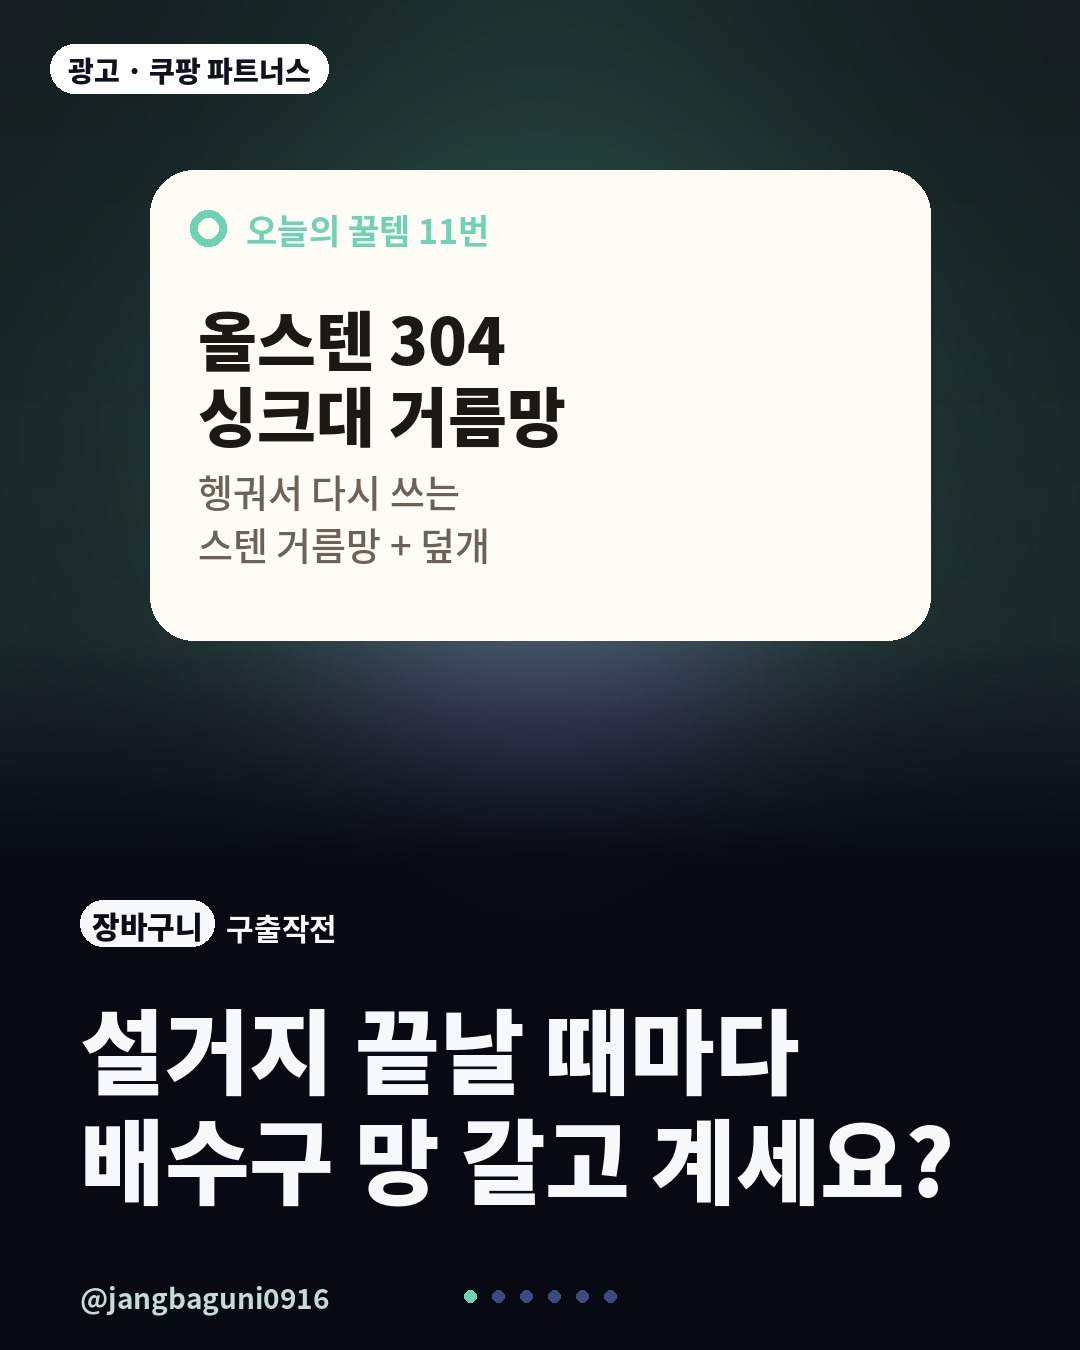
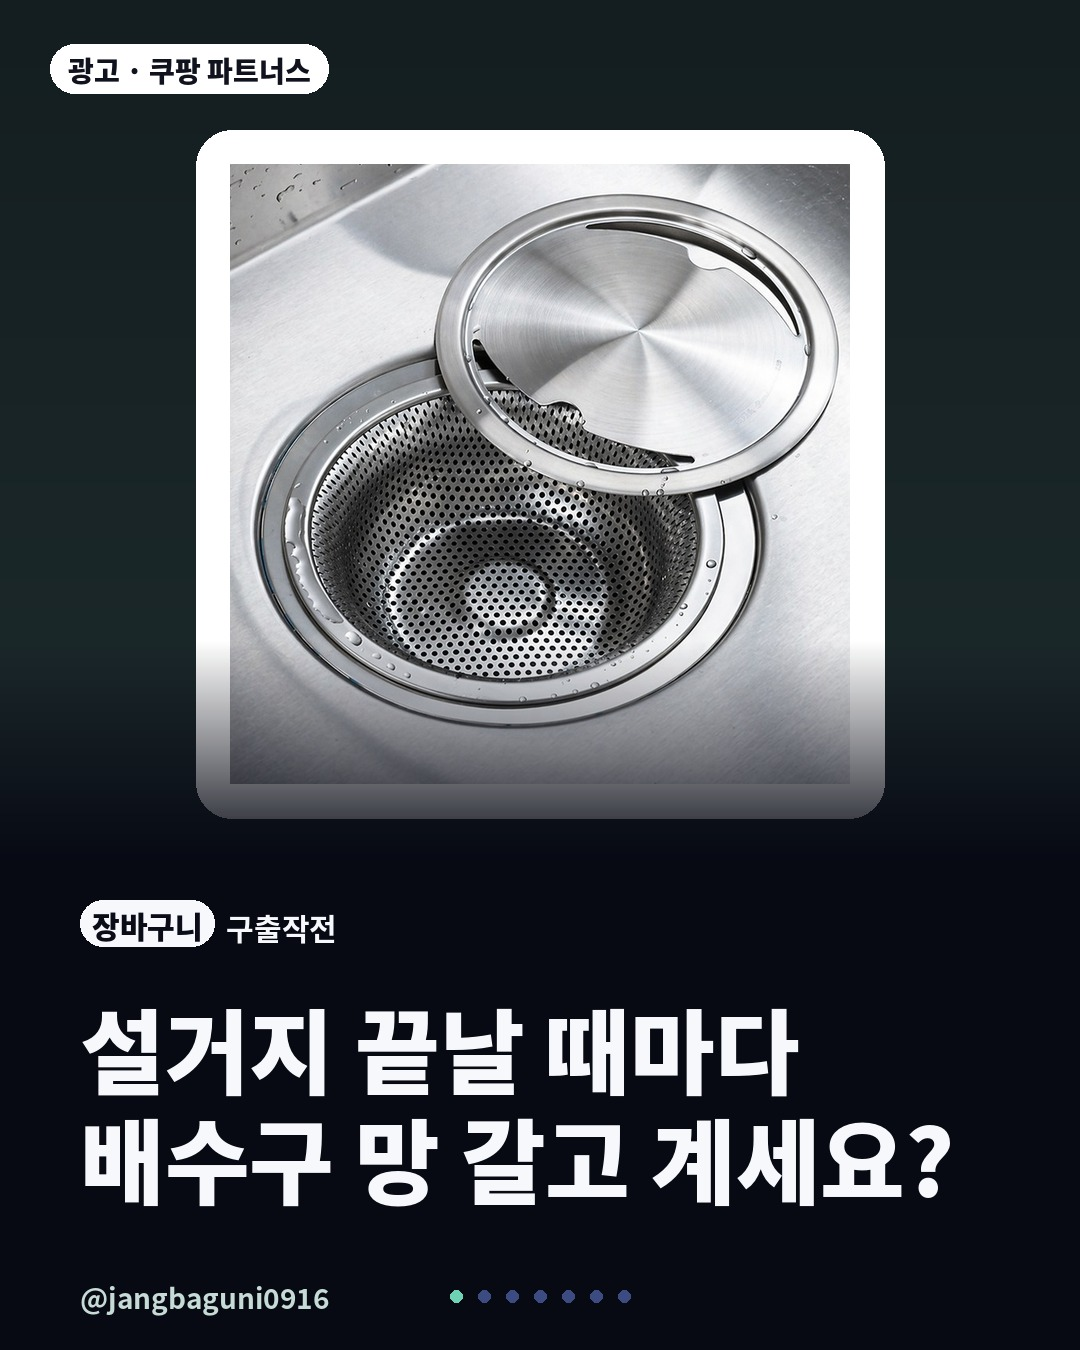
꿀템 11·12번: 실물 상품 사진 적용 + 실물 사진 필수 규칙(PLAYBOOK 15)
Claude-Session: https://claude.ai/code/session_01VQQ9ZVuTUbQV4BdtZ9CxqV

Changed region(s): [[0.1222, 0.0622, 0.8861, 0.6222], [0.4278, 0.9333, 0.5806, 0.9644]]

diff --git a/picks/PLAYBOOK.md b/picks/PLAYBOOK.md
@@ -30,7 +30,7 @@
 - 반드시 포함: `"ad_label": "광고 · 쿠팡 파트너스"`, `"theme"`, `"brand": "@jangbaguni0916"`, `"store_tag": ["장바구니","구출작전"]`, `"store_name": "장바구니 구출작전"`, `"avatar_text": "장"`, `"post_at"`.
 - 6장: 1 hero(`tag` 비주얼: kicker "오늘의 꿀템 N번", 상품 이름, 한 줄 장점) → 2 문제(이런 불편 있죠?) → 3 해결(이 상품이 어떻게) → 4 사용법·팁 → 5 "프로필 링크 → N번" → 6 follow(head: "매일 살림 꿀템이 궁금하다면" / "@jangbaguni0916 팔로우하세요!").
 - 가격은 숫자로 쓰지 않는다(수시로 바뀜). "링크에서 오늘 가격 확인"으로 쓴다. "최저가", "무조건", 효능·의학적 표현 금지. 써 본 것처럼 쓰지 않는다(직접 사용 후기 아님).
-- 상품 사진은 쓰지 않는다(사용자가 직접 찍어 준 사진만 `photo` 로 사용 가능).
+- **실물 사진 필수 (2026-11-02 사용자 요청, 모든 작업에 적용)**: 카드뉴스는 링크 번호·팔로우 장을 뺀 모든 장에 실제 상품 사진(판매자 상품 이미지 또는 사용자가 준 사진)을 `{"kind":"photo","src":"p_xxx.jpg","card":true,"size":620,"top":130}` 로 넣는다. 사진 없이 tag/big 비주얼만으로 만들지 않는다.
 - `caption.txt`: 후킹 1줄 → ✔ 장점 3줄 → "프로필 링크 → N번에서 확인" → 댓글 유도 질문 → 해시태그 10개 이내(#살림템 #살림꿀템 등). 대가성 문구와 꼬리말은 게시할 때 자동으로 맨 앞·뒤에 붙으니 넣지 않는다.
 
 ## 5. 쇼츠 (script.json) — 형식은 `shorts/drafts/2026-10-28-sample/script.json` 참고
@@ -89,7 +89,7 @@
 
 ## 13. 모든 쇼츠 = Flow AI 첫 장면 + 실제 상품 사진 + 리모션 (사용자 승인 형식)
 - 구성: 1 AI 상황 장면(후킹 질문 headline) → 2~4 실제 상품 사진 장면(사용자가 준 사진 또는 판매자 상품 이미지, 안전·인증 문구 이미지는 제외) → 마지막 '프로필 링크 N번' + 좋아요·구독·팔로우.
-- 상품 사진이 없으면 tag/big 비주얼로 대신한다.
+- 상품 장면(2~4)에는 반드시 실제 상품 사진을 넣는다(2026-11-02 사용자 요청, 모든 쇼츠). 사진을 못 구했으면 tag/big 으로 대신하지 말고 초안 맨 위에 ⚠ 로 알리고 사진부터 구한다.
 
 ### Flow AI 첫 장면 만드는 순서 (매번, 2026-10-28 확정)
 1. 크롬(claude-in-chrome)에서 https://flow.google.com 의 기존 프로젝트를 열거나 "새 프로젝트". 사용자 구글 계정으로 이미 로그인되어 있다(로그인 화면이면 건너뛰고 초안 맨 위에 ⚠).
@@ -111,3 +111,10 @@
 - 링크 안내는 지금처럼 "프로필 링크에서 O번" 유지. 댓글 키워드 자동 DM(ManyChat 등)은 사용자가 직접 가입·연결해야 하므로 사용자가 요청할 때만 안내한다.
 
 - 정시 게시 (2026-10-29 추가): 승인 push 후 `정시 게시 도우미`(post-on-time.yml)가 게시 시각까지 기다렸다가 picks-post 를 실행한다(60분 앞까지). 그보다 멀면 기존 15분 확인에 맡긴다.
+
+## 15. 실물 상품 사진 가져오기 (2026-11-02 사용자 요청: 모든 카드뉴스·쇼츠에 실물 사진)
+- 작업 환경(클라우드)에서는 쿠팡 이미지 서버(coupangcdn.com)가 막혀 있다(403). 크롬 자동 다운로드도 coupangcdn.com 에서 막힐 수 있다.
+- 순서: ① 크롬으로 쿠팡 상품 페이지(`https://www.coupang.com/vp/products/<productId>?itemId=..&vendorItemId=..`, 파트너스 링크 생성 화면 주소에 있는 번호)를 열고 상품평 수를 확인(100개 이상)한 뒤, 갤러리 썸네일(`48x48ex`) 주소를 JS로 모아 `780x780ex` 로 바꾼다.
+  ② 폴더에 `photo_urls.txt` 를 "파일이름 URL" 한 줄씩(예: `src_1.png https://thumbnail.coupangcdn.com/thumbnails/remote/780x780ex/image/...`) 써서 push 하면 GitHub "꿀템 상품 사진 가져오기"(picks-photos.yml)가 1분 안에 받아 커밋한다 → pull.
+  ③ 받은 사진을 모두 직접 보고 고른다. 사람 얼굴, 판매자 광고 문구('공간 절약', 'BIG 사이즈', '1+1', '안전포장', 인증·무독성), 전후 비교 이미지는 쓰지 않거나 문구 없는 부분만 잘라 쓴다(사진 픽셀 수정·합성 금지). 사이즈 표 이미지는 써도 된다.
+  ④ 고른 사진을 `p_*.jpg` 로 저장하고 `src_*`·`photo_urls.txt` 는 지운다(git rm).
